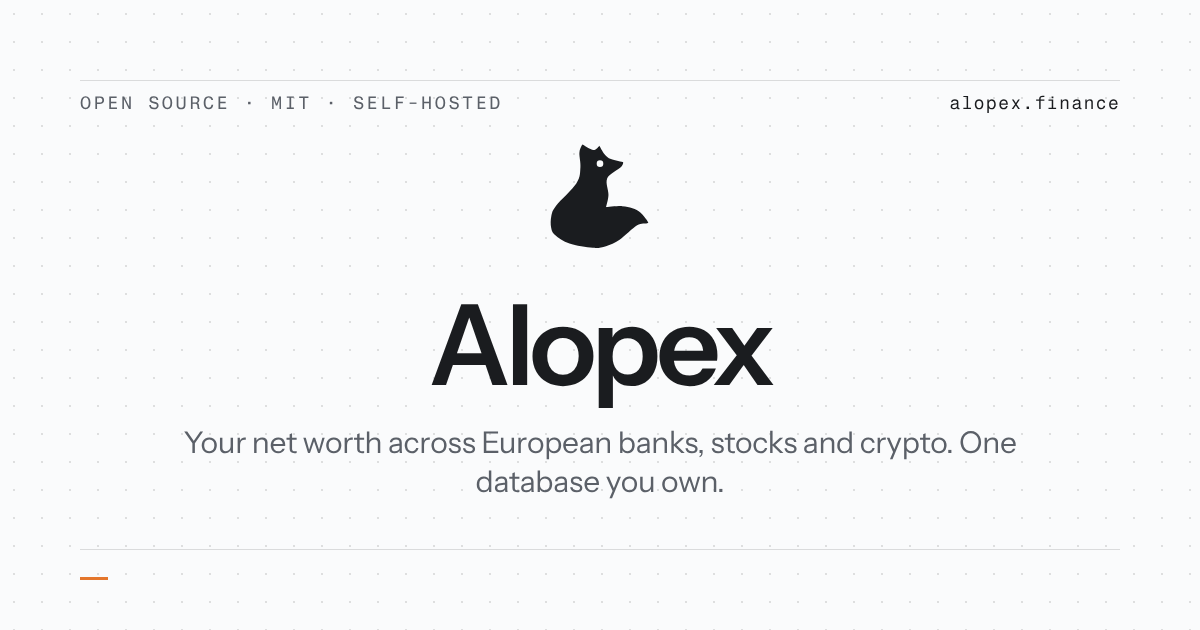
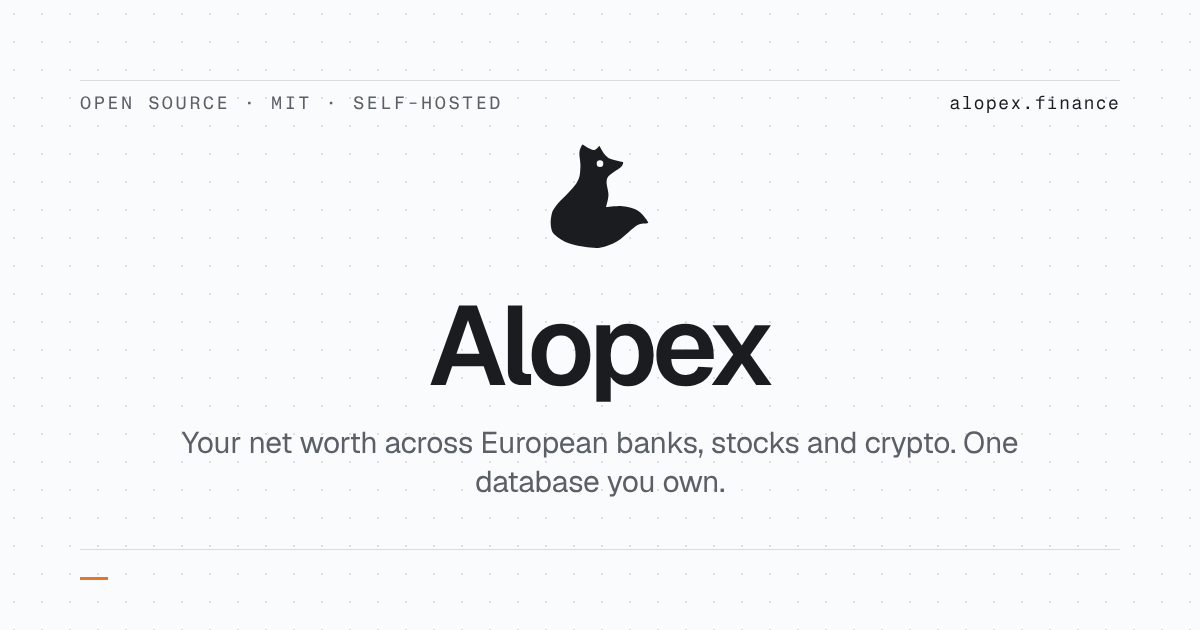
feat(design): Geist for words, Fragment Mono stays for figures
Swap the sans from Instrument Sans to Geist (self-hosted via fontsource),
matching the landing. OG image regenerated. Docs updated.

Claude-Session: https://claude.ai/code/session_015ob4vseKrSYbt3XPdrmNM3

Changed region(s): [[0.37, 0.4825, 0.6475, 0.6635], [0.1542, 0.6635, 0.8633, 0.7238], [0.4008, 0.754, 0.6167, 0.7841]]

diff --git a/src/styles.css b/src/styles.css
@@ -1,4 +1,4 @@
-@import "@fontsource-variable/instrument-sans";
+@import "@fontsource-variable/geist";
 @import "@fontsource/fragment-mono";
 @import "tailwindcss" source(none);
 @source "../src";
@@ -8,7 +8,7 @@
 
 /*
  * Alopex design system.
- * "Arctic Ledger": figures in Fragment Mono (money), words in Instrument Sans.
+ * "Arctic Ledger": figures in Fragment Mono (money), words in Geist.
  * Cold snow ground, cold ink as the one control tint, a single Ember accent
  * (fox fur) for focus, the live cursor and counts. Gains/losses are the only
  * other hues; categories are one hue ordered by lightness. Hairlines, not
@@ -61,7 +61,7 @@
   --color-sidebar-border: var(--sidebar-border);
   --color-sidebar-ring: var(--sidebar-ring);
   --font-sans:
-    "Instrument Sans Variable", -apple-system, BlinkMacSystemFont, system-ui, "Segoe UI", Roboto, sans-serif;
+    "Geist Variable", -apple-system, BlinkMacSystemFont, system-ui, "Segoe UI", Roboto, sans-serif;
   --font-figure: "Fragment Mono", ui-monospace, "SF Mono", Menlo, monospace;
   --font-mono: "Fragment Mono", ui-monospace, "SF Mono", Menlo, monospace;
   --color-mint: var(--mint);

diff --git a/DESIGN.md b/DESIGN.md
@@ -38,22 +38,22 @@ typography:
     letterSpacing: "-0.04em"
     fontFeature: "tnum, lnum"
   headline:
-    fontFamily: "Instrument Sans Variable, -apple-system, BlinkMacSystemFont, system-ui, sans-serif"
+    fontFamily: "Geist Variable, -apple-system, BlinkMacSystemFont, system-ui, sans-serif"
     fontSize: "2rem"
     fontWeight: 600
     lineHeight: 1.15
     letterSpacing: "-0.03em"
   title:
-    fontFamily: "Instrument Sans Variable, -apple-system, BlinkMacSystemFont, system-ui, sans-serif"
+    fontFamily: "Geist Variable, -apple-system, BlinkMacSystemFont, system-ui, sans-serif"
     fontSize: "1.25rem"
     fontWeight: 600
     letterSpacing: "-0.02em"
   section:
-    fontFamily: "Instrument Sans Variable, -apple-system, BlinkMacSystemFont, system-ui, sans-serif"
+    fontFamily: "Geist Variable, -apple-system, BlinkMacSystemFont, system-ui, sans-serif"
     fontSize: "1.125rem"
     fontWeight: 600
   body:
-    fontFamily: "Instrument Sans Variable, -apple-system, BlinkMacSystemFont, system-ui, sans-serif"
+    fontFamily: "Geist Variable, -apple-system, BlinkMacSystemFont, system-ui, sans-serif"
     fontSize: "0.9375rem"
     fontWeight: 400
     fontFeature: "tnum"
@@ -64,12 +64,12 @@ typography:
     letterSpacing: "-0.02em"
     fontFeature: "tnum, lnum"
   label:
-    fontFamily: "Instrument Sans Variable, -apple-system, BlinkMacSystemFont, system-ui, sans-serif"
+    fontFamily: "Geist Variable, -apple-system, BlinkMacSystemFont, system-ui, sans-serif"
     fontSize: "0.8125rem"
     fontWeight: 500
     lineHeight: 1.25
   caption:
-    fontFamily: "Instrument Sans Variable, -apple-system, BlinkMacSystemFont, system-ui, sans-serif"
+    fontFamily: "Geist Variable, -apple-system, BlinkMacSystemFont, system-ui, sans-serif"
     fontSize: "0.75rem"
     fontWeight: 400
   eyebrow:
@@ -78,7 +78,7 @@ typography:
     letterSpacing: "0.08em"
     textTransform: "uppercase"
   tab:
-    fontFamily: "Instrument Sans Variable, -apple-system, BlinkMacSystemFont, system-ui, sans-serif"
+    fontFamily: "Geist Variable, -apple-system, BlinkMacSystemFont, system-ui, sans-serif"
     fontSize: "0.6875rem"
     fontWeight: 500
 rounded:
@@ -164,7 +164,7 @@ components:
 
 **Creative North Star: "Arctic Ledger"**
 
-Alopex reads like a well-made bank app: one exact figure at the top of the screen, quiet rows beneath, and nothing else competing. The world is played straight in the Revolut / Trade Republic register the user pinned: a snow ground, white grouped lists floating on it with no outlines, every amount set in Fragment Mono and every word in Instrument Sans, cold ink as the one control tint and Ember (fox fur) as the single accent. Colour carries meaning (gain, loss, warning) or rank (a category, by lightness), never decoration.
+Alopex reads like a well-made bank app: one exact figure at the top of the screen, quiet rows beneath, and nothing else competing. The world is played straight in the Revolut / Trade Republic register the user pinned: a snow ground, white grouped lists floating on it with no outlines, every amount set in Fragment Mono and every word in Geist, cold ink as the one control tint and Ember (fox fur) as the single accent. Colour carries meaning (gain, loss, warning) or rank (a category, by lightness), never decoration.
 
 Density is calm rather than sparse. Rows are generous (40px avatar, 64px breakdown rows, 44px minimum tap targets), sections breathe at 32px, and the page column caps at 64rem so the figure and its chart stay in one glance on a 1440 screen. The interface is read-only in tone: no trading cues, no hype, no tinted stat tiles in boxed cards.
 
@@ -215,7 +215,7 @@ A cold neutral world: snow ground, cold ink for controls, one warm Ember accent,
 ## Typography
 
 **Figures:** Fragment Mono 400 (`font-figure`, `figure-display`, `eyebrow`): every amount, percent, date tick, count and section index.
-**Text:** Instrument Sans Variable (`font-sans`): every word.
+**Text:** Geist Variable (`font-sans`): every word.
 
 **Character:** A ledger. Money is set in a monospace so columns align by construction and a figure is recognisable as a figure before it is read; words sit in a warm grotesk beside it. Tight negative tracking (-0.04em) on the display size keeps the mono from feeling like code.
 
@@ -233,7 +233,7 @@ A cold neutral world: snow ground, cold ink for controls, one warm Ember accent,
 - **Tab** (500, 11px): mobile tab bar labels under 24px icons.
 
 ### Named Rules
-**The Mono Figure Rule.** Every number is set in Fragment Mono; every word in Instrument Sans. Never set an amount in the sans, never a sentence in the mono.
+**The Mono Figure Rule.** Every number is set in Fragment Mono; every word in Geist. Never set an amount in the sans, never a sentence in the mono.
 
 **The Quiet Page Name Rule.** On screens that open on a figure, the page name is the h1 set small (15px, 500, muted) so the figure is the loudest thing. Labels stay sentence case; the eyebrow is the one uppercase style.
 
@@ -311,7 +311,7 @@ Errors are a 10% loss wash with loss text, 8px corners, 12px by 16px padding, ro
 ### Do:
 - **Do** open every screen with one agreed total on the Headline Figure, and list screens on the large title or the month switcher.
 - **Do** keep Ink (white on dark) as the only control tint.
-- **Do** set every amount in Fragment Mono, right-aligned in rows, and every word in Instrument Sans.
+- **Do** set every amount in Fragment Mono, right-aligned in rows, and every word in Geist.
 - **Do** separate rows with hairlines inside white grouped lists on the pale ground.
 - **Do** use 4px corners on controls and 8px on containers.
 - **Do** keep Ember to lines, dots and counts: focus ring, live cursor, badges.

diff --git a/PRODUCT.md b/PRODUCT.md
@@ -53,7 +53,7 @@ A self-hosted net worth dashboard. It brings together bank accounts (synced thro
 
 - Name: Alopex.
 - Mark: Alopex the arctic fox, a flat fox head with a white mask cut out (`src/components/brand-mark.tsx`, `public/icon-*.png`). The mascot and the logo are the same drawing. The outline fox (`src/components/empty-state.tsx`) appears only in empty states: never beside an amount, never in a chart, one per viewport.
-- Look: "Arctic Ledger". Figures in Fragment Mono, text in Instrument Sans; snow ground, cold ink controls, one Ember accent (fox fur, oklch(0.68 0.16 50)) for focus, cursor and counts; categories one hue ranked by lightness; 4px/8px corners, no pills.
+- Look: "Arctic Ledger". Figures in Fragment Mono, text in Geist; snow ground, cold ink controls, one Ember accent (fox fur, oklch(0.68 0.16 50)) for focus, cursor and counts; categories one hue ranked by lightness; 4px/8px corners, no pills.
 - The user asked for a Revolut / Trade Republic direction for the app UI.
 
 ## Evidence on Hand

diff --git a/README.md b/README.md
@@ -21,7 +21,7 @@ This is the frontend. The data pipeline (bank sync, FX rates, AI categorization,
 ## Look and feel
 
 Number-first design in the spirit of Trade Republic and Revolut:
-- Each screen opens on one exact figure, set in Fragment Mono; words are Instrument Sans.
+- Each screen opens on one exact figure, set in Fragment Mono; words are Geist.
 - Scrub the net-worth chart to read any past day.
 - Snow ground, hairline rows, 4px and 8px corners, no pills.
 - Cold ink is the only control colour (white in dark mode); Ember, the fox's fur, is the one accent.
